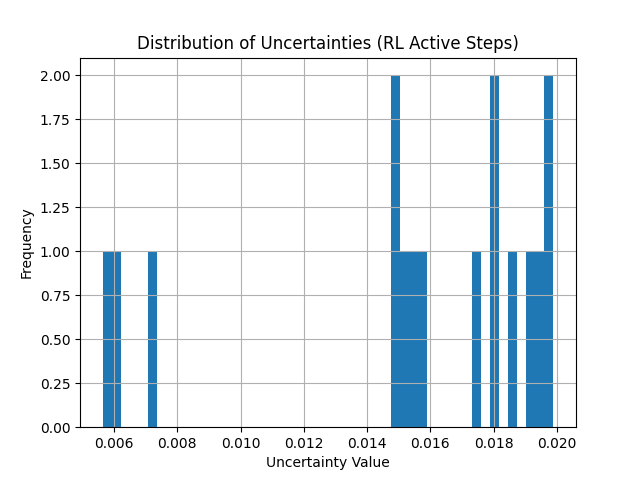
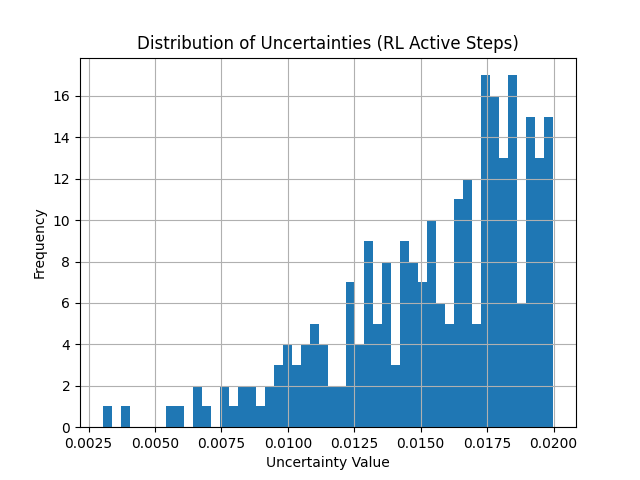
feat(evaluation): enhance evaluation metrics and plotting functionality
Add new plots for uncertainty over episodes and reward convergence to provide deeper insights into model performance. Update evaluation configuration to include higher simulation and policy frequencies, and extend the number of evaluation episodes to 120 for more robust results. Adjust training timesteps calculation to align with the desired number of episodes.

diff --git a/robust_driving_project/evaluate.py b/robust_driving_project/evaluate.py
@@ -42,8 +42,10 @@ class Evaluator:
                 'vehicles_count': 15,
                 'duration': 40,
                 'initial_spacing': 2,
-                'simulation_frequency': 15,
-                'policy_frequency': 5
+                'simulation_frequency': 20,  # Updated to 20 Hz
+                'policy_frequency': 10,      # Updated to 10 Hz
+                'max_time_step': 800,        # Added max_time_step
+                'duration': 40,              # Set maximum duration to 40 seconds
             })
             env.reset()
             return env
@@ -283,7 +285,57 @@ class Evaluator:
             plt.savefig("fallback_activation_rate_per_episode_plot.png")
             plt.close()
 
+        # Create uncertainty over episodes plot (similar to Fig. 3)
+        plt.figure(figsize=(8, 6))
+        # If we have uncertainty data for multiple episodes
+        if len(self.metrics['episode_step_uncertainties']) > 1:
+            # Calculate average uncertainty per episode
+            avg_uncertainties = [np.mean(ep_uncertainties) for ep_uncertainties in self.metrics['episode_step_uncertainties']]
+            episodes = range(1, len(avg_uncertainties) + 1)
+            
+            plt.plot(episodes, avg_uncertainties, color='blue', linewidth=1.5)
+            plt.xlabel('Episodes', fontsize=12)
+            plt.ylabel('Uncertainty', fontsize=12)
+            plt.title('Average Uncertainty Value Curve during Evaluation')
+            plt.grid(True, linestyle='--', alpha=0.7)
+            plt.tight_layout()
+            plt.savefig("plots/uncertainty_over_episodes.png", dpi=300)
+            plt.close()
+        
+        # Create reward convergence plot (similar to second image)
+        plt.figure(figsize=(8, 6))
+        if len(self.metrics['episode_rewards']) > 1:
+            episodes = range(1, len(self.metrics['episode_rewards']) + 1)
+            rewards = self.metrics['episode_rewards']
+            
+            # Plot the main reward line
+            plt.plot(episodes, rewards, color='blue', linewidth=1.5, label='Rewards')
+            
+            # Add confidence interval if we have enough data points
+            if len(rewards) > 5:
+                window_size = min(5, len(rewards) // 2)
+                rewards_smooth = np.convolve(rewards, np.ones(window_size)/window_size, mode='valid')
+                episodes_smooth = range(window_size, len(rewards) + 1)
+                
+                # Calculate a simple confidence interval
+                std_dev = np.std(rewards) * 0.5
+                plt.fill_between(
+                    episodes_smooth, 
+                    rewards_smooth - std_dev, 
+                    rewards_smooth + std_dev, 
+                    alpha=0.3, 
+                    color='lightblue'
+                )
+            
+            plt.xlabel('Episode', fontsize=12)
+            plt.ylabel('Rewards', fontsize=12)
+            plt.title('Reward Convergence during Evaluation')
+            plt.grid(True, linestyle='--', alpha=0.7)
+            plt.tight_layout()
+            plt.savefig("plots/reward_convergence.png", dpi=300)
+            plt.close()
+
 
 if __name__ == "__main__":
     evaluator = Evaluator("sac_highway_model")
-    evaluator.evaluate(n_episodes=10)
+    evaluator.evaluate(n_episodes=120)

diff --git a/robust_driving_project/train_agent.py b/robust_driving_project/train_agent.py
@@ -25,10 +25,10 @@ def create_env():
         'initial_spacing': 2,
         'simulation_frequency': 15,
         'policy_frequency': 5,
-        'reward_speed_range': [22, 30],  # Encourage higher speeds, was [20, 30]
+        'reward_speed_range': [22, 30],  
         'collision_reward': -5,
         'right_lane_reward': 0.1,
-        'high_speed_reward': 0.5,  # Increased speed reward weight, was 0.4
+        'high_speed_reward': 0.5, 
     })
     env.reset()
     return Monitor(env)
@@ -40,26 +40,27 @@ def train():
         "MlpPolicy",
         env,
         verbose=1,
-        learning_rate=1e-4,  # Reduced learning rate for more stable learning
-        buffer_size=200000,  # Increased buffer size
-        learning_starts=5000,  # More initial random actions for better exploration
-        batch_size=512,  # Larger batch size
-        train_freq=2,  # Train every 2 steps
-        gradient_steps=2,  # More gradient steps per update
+        learning_rate=1e-4,
+        buffer_size=200000,
+        learning_starts=5000,
+        batch_size=512,
+        train_freq=2,
+        gradient_steps=2,
         ent_coef='auto',
-        gamma=0.99,  # Added discount factor
-        tau=0.02,  # Added soft update coefficient
+        gamma=0.99,
+        tau=0.02,
         policy_kwargs=dict(
             net_arch=dict(
-                pi=[256, 256, 128],  # Deeper actor network
-                qf=[256, 256, 128]   # Deeper critic network
+                pi=[256, 256, 128],
+                qf=[256, 256, 128]
             )
         ),
         tensorboard_log=None
     )
     
-    # Increased training time
-    total_timesteps = 300000  # Tripled training time
+    # Adjust total timesteps for 3500 episodes
+    timesteps_per_episode = 15 * 40  # 15 Hz * 40 seconds
+    total_timesteps = 3500 * timesteps_per_episode
     model.learn(total_timesteps=total_timesteps)
     
     # Save the trained model
